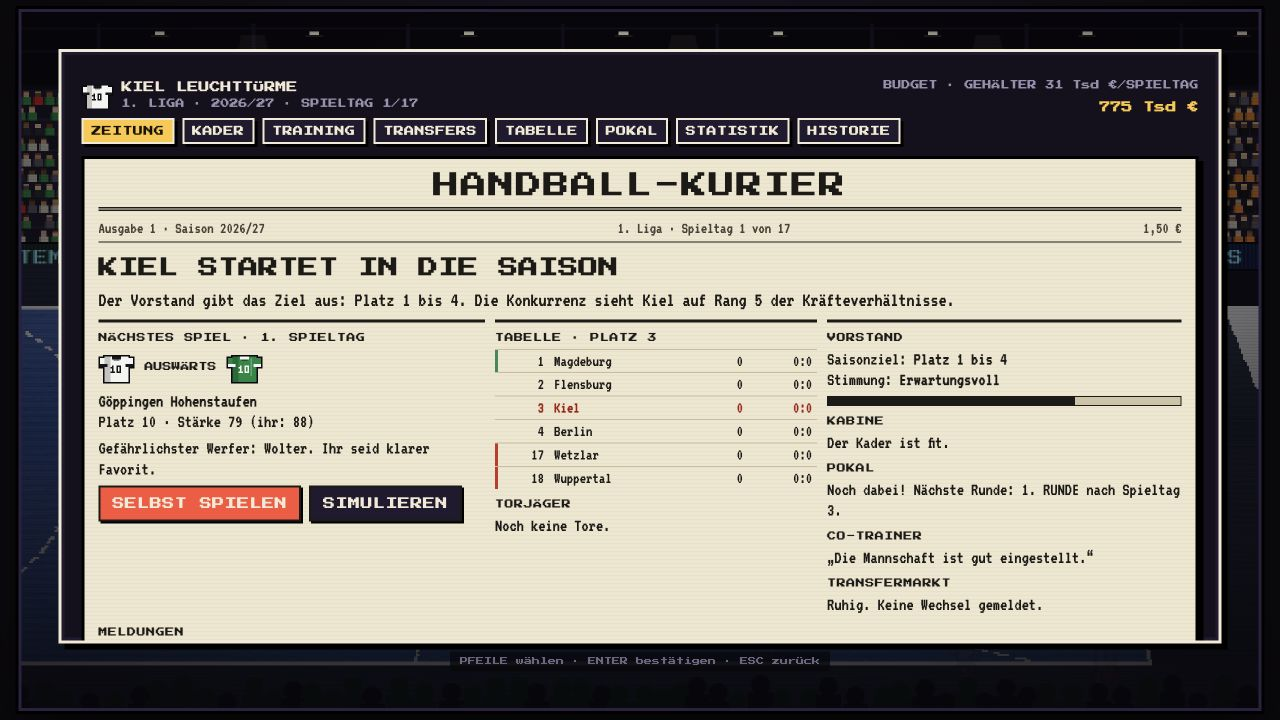
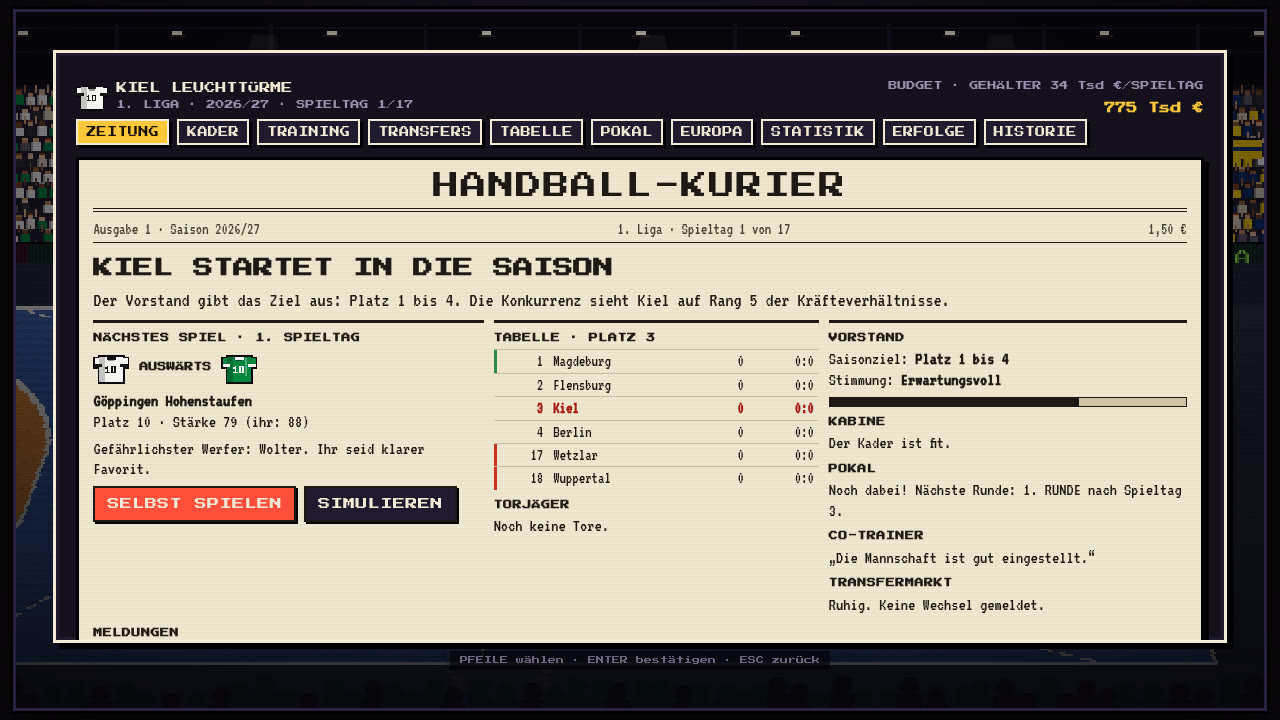
README-Screenshots aktualisiert, Pixelschrift lädt erweiterten Zeichensatz
- Neue Screenshots: Vor dem Spiel, Erfolge, Kader mit Potenzial, Teilen-Bild, Handy quer
- Teamauswahl, Zeitung, Statistik, Pokal, Europapokal neu aufgenommen (Tabs EUROPA und ERFOLGE fehlten)
- tools/promo/bilder.js und promo.sh bilder: alle Standbilder reproduzierbar neu aufnehmen
- Leinwand und Teilen-Bild laden den latin-ext-Zeichensatz von Press Start 2P,
  damit Ć, Š, Ž, Ł in Namen wie Petrović nicht als falsche Zeichen erscheinen
- Ladetest prüft beide Zeichensätze; Changelog

Claude-Session: https://claude.ai/code/session_01KKDZCGMYGcypLRLX9DG4SL

diff --git a/tools/promo/bilder.js b/tools/promo/bilder.js
@@ -1,0 +1,61 @@
+/* Nimmt Standbilder für README und Landingpage auf (PNG, 1280 × 720, Handy 1278 × 590): Teamauswahl, Karriere
+   (Zeitung, Statistik, Pokal, Europapokal, Kader, Erfolge), Vor dem Spiel, Teilen-Bild und Handy im Querformat.
+   Aufruf: node bilder.js <Ausgabeordner> [Basis-URL]
+   Fester Zufall: die Menübilder sind bei jedem Aufruf gleich (das Handybild läuft in Echtzeit und kann leicht abweichen). promo.sh wandelt sie in JPG für docs/screenshots/ um.
+   Benötigt Playwright (npm i playwright) und eine laufende lokale Seite, siehe promo.sh. */
+let pw; try { pw = require('playwright'); } catch (e) { pw = require('playwright-core'); }
+const fs = require('fs'), path = require('path');
+const [OUT, BASE = 'http://localhost:8765'] = process.argv.slice(2);
+if (!OUT) { console.error('Aufruf: node bilder.js <ordner> [basis-url]'); process.exit(1); }
+fs.mkdirSync(OUT, { recursive: true });
+const SEED = s => { window.__seed = s => { let x = s; Math.random = () => (x = (x * 16807) % 2147483647) / 2147483647; }; window.__seed(s); window.AudioContext = window.webkitAudioContext = undefined; };
+
+(async () => {
+  const b = await pw.chromium.launch(process.env.CHROMIUM ? { executablePath: process.env.CHROMIUM } : {});
+  const open = async (seed, opts = { viewport: { width: 1280, height: 720 } }) => {
+    const ctx = await b.newContext(opts); await ctx.addInitScript(SEED, seed);
+    const p = await ctx.newPage(); p.on('pageerror', e => { console.error('Fehler im Spiel:', e.message); process.exitCode = 1; });
+    await p.goto(BASE + '/game/index.html'); await p.waitForTimeout(700); return { p, ctx };
+  };
+  const shot = (p, name) => p.screenshot({ path: path.join(OUT, name + '.png') });
+
+  // Schnelles Spiel: Kiel gegen Flensburg
+  { const { p, ctx } = await open(2026);
+    await p.evaluate(() => { ACT.main(); ACT.quick(); SEL.a = TEAMS.find(t => t.k === 'KIE').id; SEL.b = TEAMS.find(t => t.k === 'FLE').id; ACT.quick(); document.activeElement.blur(); });
+    await shot(p, 'team-selection'); await ctx.close(); }
+
+  // Kiel (Co-Trainer stellt auf, wie ein Spieler, der rotiert), eine Saison mit 17 Spieltagen: Zeitung zum Start, Statistik und Pokal nach 9 Spieltagen, Europapokal am Saisonende
+  { const { p, ctx } = await open(2026);
+    await p.evaluate(() => { __seed(2026); G = null; careerCreate(TEAMS.find(t => t.k === 'KIE').id, 1, 1, 1, true, 1); careerHub('home'); document.activeElement.blur(); });
+    await shot(p, 'career-newspaper');
+    await p.evaluate(() => { let g = 0; while ((CAREER.season.round < 9 || cupDue() || euroDue()) && g++ < 40) ACT.cSim(); ACT.cTab('stats'); document.activeElement.blur(); });
+    await shot(p, 'career-stats');
+    await p.evaluate(() => { ACT.cTab('cup'); document.activeElement.blur(); }); await shot(p, 'career-cup');
+    await p.evaluate(() => { let g = 0; while ((!CAREER.season.done || cupDue() || euroDue()) && g++ < 80) ACT.cSim(); ACT.cTab('euro'); document.activeElement.blur(); const sc = [...menu.querySelectorAll('*')].find(e => e.scrollHeight > e.clientHeight + 20 && /auto|scroll/.test(getComputedStyle(e).overflowY)); if (sc) sc.scrollTop = sc.scrollHeight; });
+    await shot(p, 'career-euro');   /* ans Ende gescrollt: K.-o.-Phase bis zum Sieger */ await ctx.close(); }
+
+  // Vor dem Spiel: Kiel in der Rückrunde, Vergleich mit Form, Bilanz, Sternen und Hinspiel
+  { const { p, ctx } = await open(2026);
+    await p.evaluate(() => { __seed(2026); G = null; careerCreate(TEAMS.find(t => t.k === 'KIE').id, 2, 1, 1, true, 1); let g = 0; while ((CAREER.season.round < 21 || cupDue() || euroDue()) && g++ < 90) ACT.cSim(); careerHub('home'); ACT.cPlay(); });
+    await shot(p, 'prematch'); await ctx.close(); }
+
+  // Kiel über fünf Saisons (17 Spieltage): Pokal, Meisterschaft und Europapokal. Dann Erfolge, Kader mit Potenzial zur Saisonmitte, Karriere als Bild
+  { const { p, ctx } = await open(19);
+    await p.evaluate(() => {
+      __seed(19); G = null; careerCreate(TEAMS.find(t => t.k === 'KIE').id, 1, 1, 0);
+      for (let s = 0; s < 5; s++) { let g = 0; while ((!CAREER.season.done || cupDue() || euroDue()) && g++ < 200) ACT.cSim(); ACT.cEnd(); ACT.cNext(); }
+      ACT.cTab('trophy'); document.activeElement.blur();
+    });
+    await shot(p, 'career-trophies');
+    await p.evaluate(() => { for (let i = 0; i < 8; i++) ACT.cSim(); ACT.cTab('squad'); document.activeElement.blur(); }); await shot(p, 'career-squad');
+    await p.evaluate(() => shareCard('career')); await p.waitForSelector('#menu img.sharecard'); await p.waitForTimeout(300);
+    await shot(p, 'share-card'); await ctx.close(); }
+
+  // Handy quer: Spielfeld über die volle Breite, durchscheinende Touch-Knöpfe
+  { const { p, ctx } = await open(4242, { viewport: { width: 852, height: 393 }, isMobile: true, hasTouch: true, deviceScaleFactor: 1.5 });
+    await p.evaluate(() => { localStorage.setItem('hl4_touchtip', '9'); document.body.classList.add('touch'); startMatch(TEAMS.find(t => t.k === 'KIE').id, TEAMS.find(t => t.k === 'FLE').id, { human: 0, halfLen: 180 }); G.introT = 99; });
+    await p.waitForFunction(() => G && G.phase === 'play', null, { timeout: 20000 }); await p.waitForTimeout(2500);
+    await shot(p, 'mobile'); await ctx.close(); }
+
+  await b.close();
+})();

diff --git a/game/index.html b/game/index.html
@@ -3578,7 +3578,7 @@ function seasonHead(s) {
   return `PLATZ ${s.pos}`;
 }
 async function drawShareCard(kind) {
-  try { if (document.fonts && document.fonts.load) await document.fonts.load(`8px ${FONT}`); } catch (e) { }
+  try { if (document.fonts && document.fonts.load) await Promise.all([document.fonts.load(`8px ${FONT}`), document.fonts.load(`8px ${FONT}`, 'ĆČŠŽŁŐ')]); } catch (e) { }
   const c = document.createElement('canvas'); c.width = CARD_W; c.height = CARD_H; const g = c.getContext('2d'); g.imageSmoothingEnabled = false;
   const me = CAREER.team, T = TEAMS[me], K = T.home, R = (x, y, w, h, col) => { g.fillStyle = col; g.fillRect(Math.round(x), Math.round(y), Math.round(w), Math.round(h)); };
   const tx = (s, x, y, size, col, align = 'center', maxW = CARD_W - 24) => {
@@ -4110,7 +4110,8 @@ function frame(now) {
 }
 startDemo();
 ACT.title();
-(document.fonts && document.fonts.load ? document.fonts.load('8px "Press Start 2P"') : Promise.resolve()).then(() => { if (G) buildArena(G.kits[0], G.kits[1], G.lg, G.event); }).catch(() => { });
+// beide Zeichensätze laden: die Leinwand lädt Schriften nicht selbst nach, sonst fehlen Ć, Š, Ž, Ł … in Namen wie Petrović
+(document.fonts && document.fonts.load ? Promise.all([document.fonts.load('8px "Press Start 2P"'), document.fonts.load('8px "Press Start 2P"', 'ĆČŠŽŁŐ')]) : Promise.resolve()).then(() => { if (G) buildArena(G.kits[0], G.kits[1], G.lg, G.event); }).catch(() => { });
 requestAnimationFrame(frame);
 </script>
 </body></html>

diff --git a/hallen-legenden.html b/hallen-legenden.html
@@ -3569,7 +3569,7 @@ function seasonHead(s) {
   return `PLATZ ${s.pos}`;
 }
 async function drawShareCard(kind) {
-  try { if (document.fonts && document.fonts.load) await document.fonts.load(`8px ${FONT}`); } catch (e) { }
+  try { if (document.fonts && document.fonts.load) await Promise.all([document.fonts.load(`8px ${FONT}`), document.fonts.load(`8px ${FONT}`, 'ĆČŠŽŁŐ')]); } catch (e) { }
   const c = document.createElement('canvas'); c.width = CARD_W; c.height = CARD_H; const g = c.getContext('2d'); g.imageSmoothingEnabled = false;
   const me = CAREER.team, T = TEAMS[me], K = T.home, R = (x, y, w, h, col) => { g.fillStyle = col; g.fillRect(Math.round(x), Math.round(y), Math.round(w), Math.round(h)); };
   const tx = (s, x, y, size, col, align = 'center', maxW = CARD_W - 24) => {
@@ -4101,6 +4101,7 @@ function frame(now) {
 }
 startDemo();
 ACT.title();
-(document.fonts && document.fonts.load ? document.fonts.load('8px "Press Start 2P"') : Promise.resolve()).then(() => { if (G) buildArena(G.kits[0], G.kits[1], G.lg, G.event); }).catch(() => { });
+// beide Zeichensätze laden: die Leinwand lädt Schriften nicht selbst nach, sonst fehlen Ć, Š, Ž, Ł … in Namen wie Petrović
+(document.fonts && document.fonts.load ? Promise.all([document.fonts.load('8px "Press Start 2P"'), document.fonts.load('8px "Press Start 2P"', 'ĆČŠŽŁŐ')]) : Promise.resolve()).then(() => { if (G) buildArena(G.kits[0], G.kits[1], G.lg, G.event); }).catch(() => { });
 requestAnimationFrame(frame);
 </script>

diff --git a/src/p18_erfolge.js b/src/p18_erfolge.js
@@ -111,7 +111,7 @@ function seasonHead(s) {
   return `PLATZ ${s.pos}`;
 }
 async function drawShareCard(kind) {
-  try { if (document.fonts && document.fonts.load) await document.fonts.load(`8px ${FONT}`); } catch (e) { }
+  try { if (document.fonts && document.fonts.load) await Promise.all([document.fonts.load(`8px ${FONT}`), document.fonts.load(`8px ${FONT}`, 'ĆČŠŽŁŐ')]); } catch (e) { }
   const c = document.createElement('canvas'); c.width = CARD_W; c.height = CARD_H; const g = c.getContext('2d'); g.imageSmoothingEnabled = false;
   const me = CAREER.team, T = TEAMS[me], K = T.home, R = (x, y, w, h, col) => { g.fillStyle = col; g.fillRect(Math.round(x), Math.round(y), Math.round(w), Math.round(h)); };
   const tx = (s, x, y, size, col, align = 'center', maxW = CARD_W - 24) => {

diff --git a/src/p12_main.js b/src/p12_main.js
@@ -124,5 +124,6 @@ function frame(now) {
 }
 startDemo();
 ACT.title();
-(document.fonts && document.fonts.load ? document.fonts.load('8px "Press Start 2P"') : Promise.resolve()).then(() => { if (G) buildArena(G.kits[0], G.kits[1], G.lg, G.event); }).catch(() => { });
+// beide Zeichensätze laden: die Leinwand lädt Schriften nicht selbst nach, sonst fehlen Ć, Š, Ž, Ł … in Namen wie Petrović
+(document.fonts && document.fonts.load ? Promise.all([document.fonts.load('8px "Press Start 2P"'), document.fonts.load('8px "Press Start 2P"', 'ĆČŠŽŁŐ')]) : Promise.resolve()).then(() => { if (G) buildArena(G.kits[0], G.kits[1], G.lg, G.event); }).catch(() => { });
 requestAnimationFrame(frame);

diff --git a/README.md b/README.md
@@ -22,6 +22,12 @@ Actual browser gameplay and menus. Click any image to view it at full size.
 | [![Statistik-Seite mit Kennzahlen, Verlauf des Tabellenplatzes, Torjägern und Kaderwerten](docs/screenshots/career-stats.jpg)](docs/screenshots/career-stats.jpg) | [![Pokal als Turnierbaum von der ersten Runde bis zum Sieger](docs/screenshots/career-cup.jpg)](docs/screenshots/career-cup.jpg) |
 | **Final Four** | **Europapokal · European cup** |
 | [![Final Four in der lila Event-Halle: Kiel holt den Europapokal, Konfetti in den Vereinsfarben](docs/screenshots/final-four.jpg)](docs/screenshots/final-four.jpg) | [![Europapokal im Karriere-Modus: Gruppentabellen, Ergebnisse und Turnierbaum bis zum Sieger](docs/screenshots/career-euro.jpg)](docs/screenshots/career-euro.jpg) |
+| **Vor dem Spiel · Pre-match comparison** | **Erfolge · Achievements** |
+| [![Vor dem Spiel: Kiel gegen Berlin mit Tabellenplatz, Form der letzten fünf Spiele, Sternen für Angriff, Abwehr und Tor, Topwerfer und Hinspiel](docs/screenshots/prematch.jpg)](docs/screenshots/prematch.jpg) | [![Tab Erfolge: Trophäenschrank mit Meisterschaft, Pokal und Europapokal, darunter die Rekorde der Karriere](docs/screenshots/career-trophies.jpg)](docs/screenshots/career-trophies.jpg) |
+| **Kader mit Potenzial · Squad with potential** | **Karriere als Bild teilen · Share your career** |
+| [![Kader mit Gesamtwert, Potenzial und Trend, Einzelwerten, Form, Fitness, Toren, Vertrag und Marktwert](docs/screenshots/career-squad.jpg)](docs/screenshots/career-squad.jpg) | [![Teilen-Bild der Karriere: drei Titel in fünf Saisons, beste Saison, höchster Sieg, Torjäger und Vereinslegende](docs/screenshots/share-card.jpg)](docs/screenshots/share-card.jpg) |
+| **Handy quer · Phone landscape** | |
+| [![Spiel auf dem Handy im Querformat: Spielfeld über die volle Breite, Stick links, durchscheinende Knöpfe für Pass, Wurf und Finte](docs/screenshots/mobile.jpg)](docs/screenshots/mobile.jpg) | |
 
 ---
 
@@ -117,7 +123,7 @@ impressum.html        Impressum
 datenschutz.html      Datenschutzerklärung
 assets/               Story-Film, Umzugs-Skript, Styles und Kontakt-Skript für Impressum und Datenschutz
 fonts/                Schriften lokal (Press Start 2P, VT323, SIL OFL)
-tools/                Google-Apps-Script für die Wunschliste, tools/promo: Teaser, Spielclips und GIFs neu aufnehmen
+tools/                Google-Apps-Script für die Wunschliste, tools/promo: Teaser, Spielclips, GIFs und Screenshots neu aufnehmen
 netlify.toml          Einstellungen für Netlify (Hosting von hallenlegenden.de)
 hallen-legenden.html  dieselbe Seite ohne <html>-Gerüst (für die Veröffentlichung als Claude-Artifact)
 src/                  Quellcode in Modulen, wird per build.sh zusammengesetzt
@@ -267,7 +273,7 @@ impressum.html        legal notice (German)
 datenschutz.html      privacy policy (German)
 assets/               story film, move script, styles and contact script for the legal pages
 fonts/                self-hosted fonts (Press Start 2P, VT323, SIL OFL)
-tools/                Google Apps Script for the wish list, tools/promo: re-record teaser, game clips and GIFs
+tools/                Google Apps Script for the wish list, tools/promo: re-record teaser, game clips, GIFs and screenshots
 netlify.toml          Netlify settings (hosting for hallenlegenden.de)
 hallen-legenden.html  same page without the <html> wrapper (for publishing as a Claude Artifact)
 src/                  modular source code, assembled by build.sh

diff --git a/CHANGELOG.md b/CHANGELOG.md
@@ -10,7 +10,9 @@ Alle Versionen bis v7.8 entstanden am 1. Oktober 2026 in einer durchgehenden Ent
   - Nur Karriere: Tabellenplatz mit Bilanz (Siege-Unentschieden-Niederlagen), Form der letzten fünf Spiele aus Liga, Pokal und Europapokal (grün, grau, rot), Ergebnis des Hinspiels oder des letzten Duells der Saison
 - **SIMULIEREN direkt in der Vorschau:** Wer den Gegner gesehen hat, kann das Spiel von dort aus simulieren lassen.
 - Am Handy im Hochformat steht das Hinspiel zwischen den beiden Teamkarten.
-- 1 neuer Regressionstest (Sterne, Form, Bilanz, Topwerfer, Hinspiel, SIMULIEREN aus der Vorschau, Freundschaftsspiel ohne Form), insgesamt 33
+- **Namen mit Ć, Š, Ž, Ł und Co.** (zum Beispiel Petrović, Kovač) erscheinen jetzt auch im Spielfeld, in den Aufstellungen und auf dem Teilen-Bild richtig. Die Pixelschrift lud ihren erweiterten Zeichensatz bisher nicht, stattdessen erschienen falsche Zeichen wie „PETROVI(“.
+- **README-Screenshots:** neu sind Vor dem Spiel, Erfolge, Kader mit Potenzial, Teilen-Bild und Handy im Querformat. Teamauswahl, Zeitung, Statistik, Pokal und Europapokal sind neu aufgenommen (vorher fehlten die Tabs EUROPA und ERFOLGE). Die Landingpage nutzt dieselben Bilder. `sh tools/promo/promo.sh bilder` nimmt alle jederzeit neu auf, mit festem Zufall.
+- 1 neuer Regressionstest (Sterne, Form, Bilanz, Topwerfer, Hinspiel, SIMULIEREN aus der Vorschau, Freundschaftsspiel ohne Form), insgesamt 33. Der Ladetest prüft jetzt auch, dass beide Zeichensätze der Pixelschrift geladen sind
 
 ## v8.7: Erfolge und Teilen
 - **Neuer Tab ERFOLGE im Karriere-Modus:**
